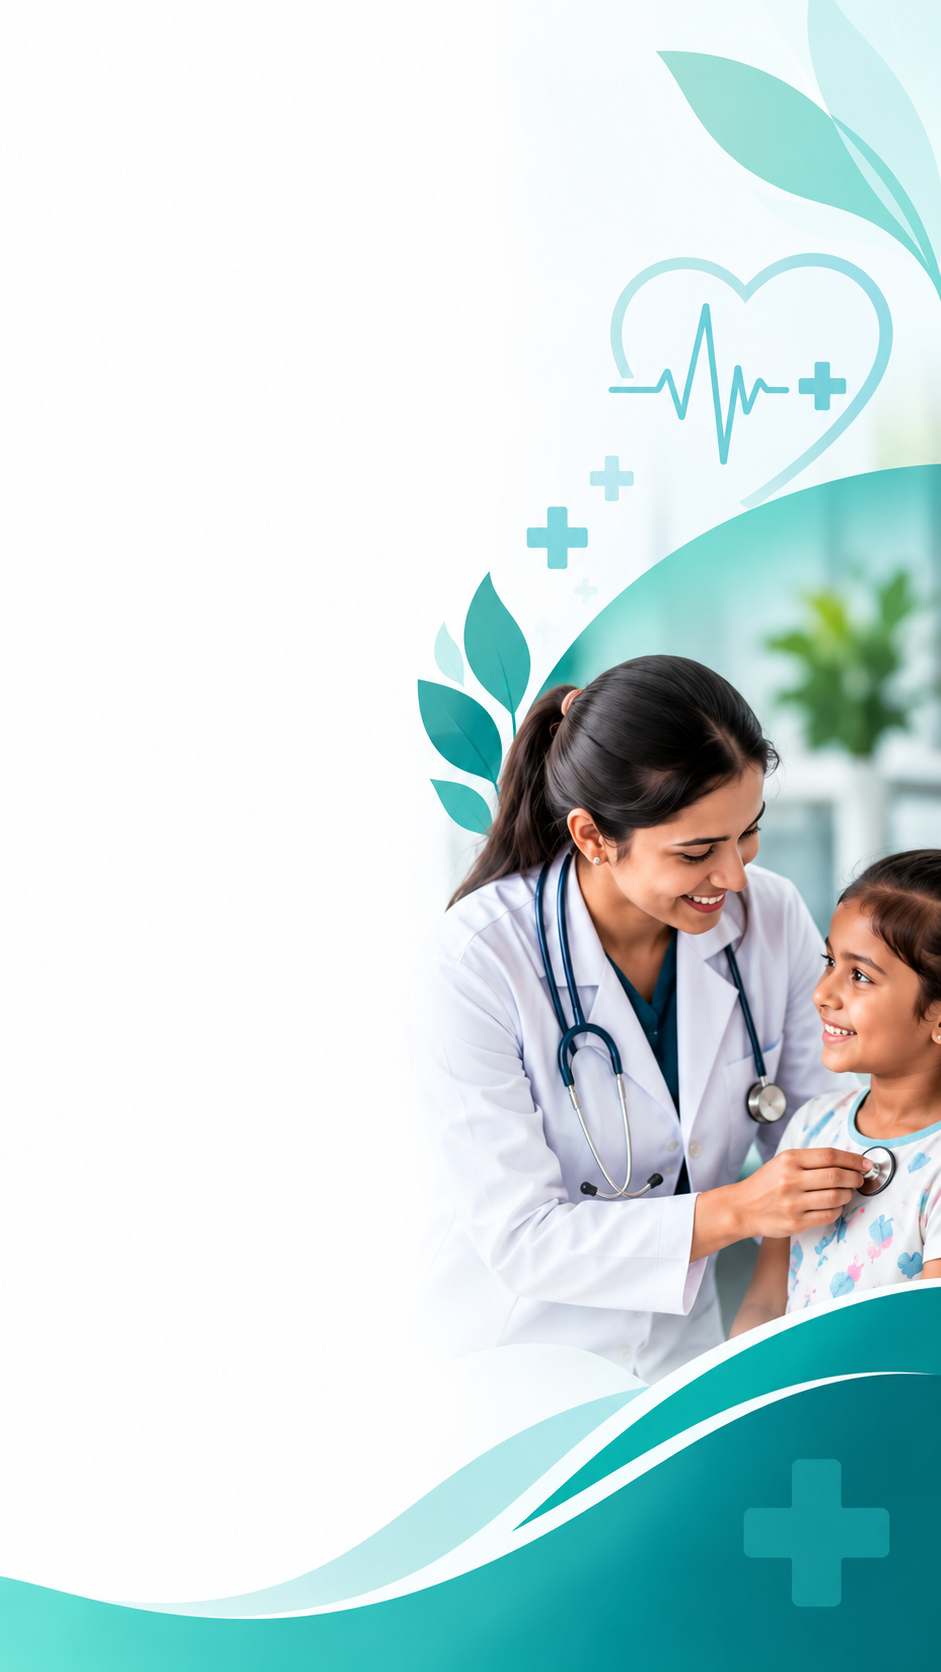
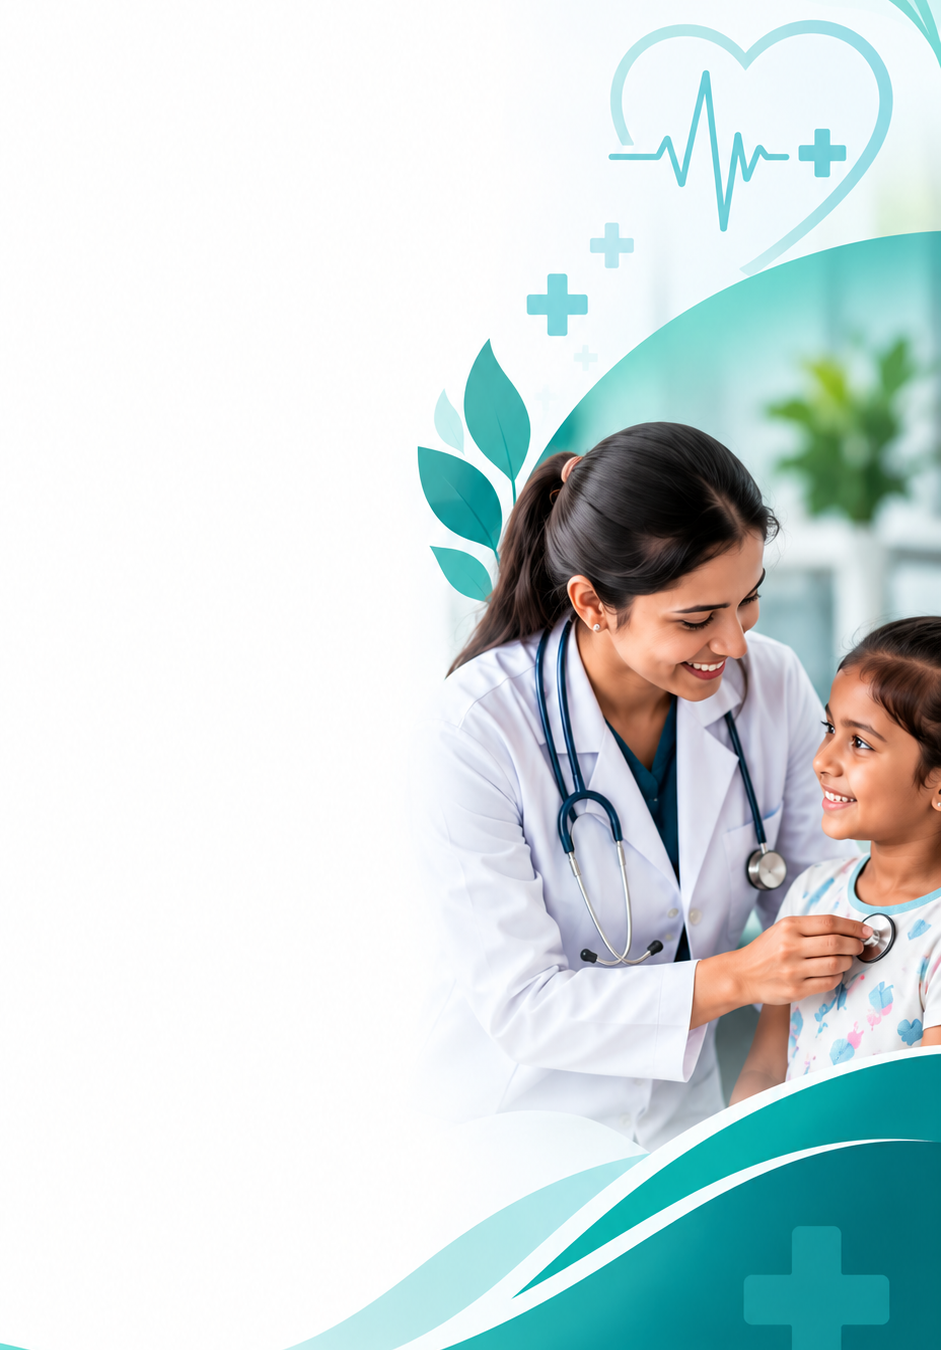
update

diff --git a/src/components/event/HeroSection.jsx b/src/components/event/HeroSection.jsx
@@ -34,14 +34,14 @@ export default function EventsHero() {
       />
 
       {/* Left white/cream overlay for text readability — desktop */}
-      <div
+      {/* <div
         className="hidden sm:block absolute inset-0"
         style={{
           background:
             "linear-gradient(90deg, rgba(255,249,243,1) 0%, rgba(255,249,243,0.98) 30%, rgba(255,249,243,0.78) 48%, rgba(255,249,243,0.15) 72%, rgba(255,249,243,0) 100%)",
         }}
         aria-hidden="true"
-      />
+      /> */}
 
       {/* Content */}
       <div className="relative max-w-7xl mx-auto px-5 sm:px-8 min-h-[calc(100vh-100px)] flex items-center">

diff --git a/src/components/work/HeroSection.jsx b/src/components/work/HeroSection.jsx
@@ -35,14 +35,14 @@ export default function Hero() {
       />
 
       {/* White Gradient - Left to Right, desktop */}
-      <div
+      {/* <div
         className="hidden sm:block absolute inset-0"
         style={{
           background:
             "linear-gradient(90deg, rgba(255,255,255,1) 0%, rgba(255,255,255,0.98) 28%, rgba(255,255,255,0.82) 45%, rgba(255,255,255,0.35) 68%, rgba(255,255,255,0) 100%)",
         }}
         aria-hidden="true"
-      />
+      /> */}
 
       {/* Content */}
       <div className="relative max-w-7xl mx-auto px-5 sm:px-8 min-h-[calc(100vh-100px)] flex items-center">

diff --git a/src/components/about/HeroSection.jsx b/src/components/about/HeroSection.jsx
@@ -24,7 +24,7 @@ export default function AboutHero() {
       <div className="sm:hidden absolute inset-0 bg-gradient-to-r from-[#FDFBF7] via-[#FDFBF7]/90 to-[#FDFBF7]/30" />
 
       {/* left-side scrim — desktop */}
-      <div className="hidden sm:block absolute inset-0 bg-gradient-to-r from-[#FDFBF7] via-[#FDFBF7]/70 to-transparent" />
+      {/* <div className="hidden sm:block absolute inset-0 bg-gradient-to-r from-[#FDFBF7] via-[#FDFBF7]/70 to-transparent" /> */}
 
       <Container className="relative z-10 min-h-[calc(100vh-100px)] flex items-center py-14 sm:py-20">
 

diff --git a/src/components/contact/HeroSection.jsx b/src/components/contact/HeroSection.jsx
@@ -33,14 +33,14 @@ export default function ContactHero() {
       />
 
       {/* White Gradient Overlay — desktop */}
-      <div
+      {/* <div
         className="hidden sm:block absolute inset-0"
         style={{
           background:
             "linear-gradient(90deg, rgba(255,255,255,0.97) 0%, rgba(255,255,255,0.75) 40%, rgba(255,255,255,0.05) 100%)",
         }}
         aria-hidden="true"
-      />
+      /> */}
 
       {/* Content */}
       <div className="relative z-10 max-w-7xl mx-auto px-5 sm:px-8 min-h-[calc(100vh-100px)] flex items-center">

diff --git a/src/components/gallery/HeroSection.jsx b/src/components/gallery/HeroSection.jsx
@@ -24,13 +24,13 @@ export default function GalleryHero() {
       />
 
       {/* Left-side overlay */}
-      <div
+      {/* <div
         className="absolute inset-0"
         style={{
           background:
             "linear-gradient(90deg, rgba(253,251,247,0.98) 0%, rgba(253,251,247,0.90) 35%, rgba(253,251,247,0.60) 60%, rgba(253,251,247,0.10) 100%)",
         }}
-      />
+      /> */}
 
       {/* Content */}
       <Container className="relative z-10 min-h-[calc(100vh-100px)] flex items-center py-14 sm:py-20">
